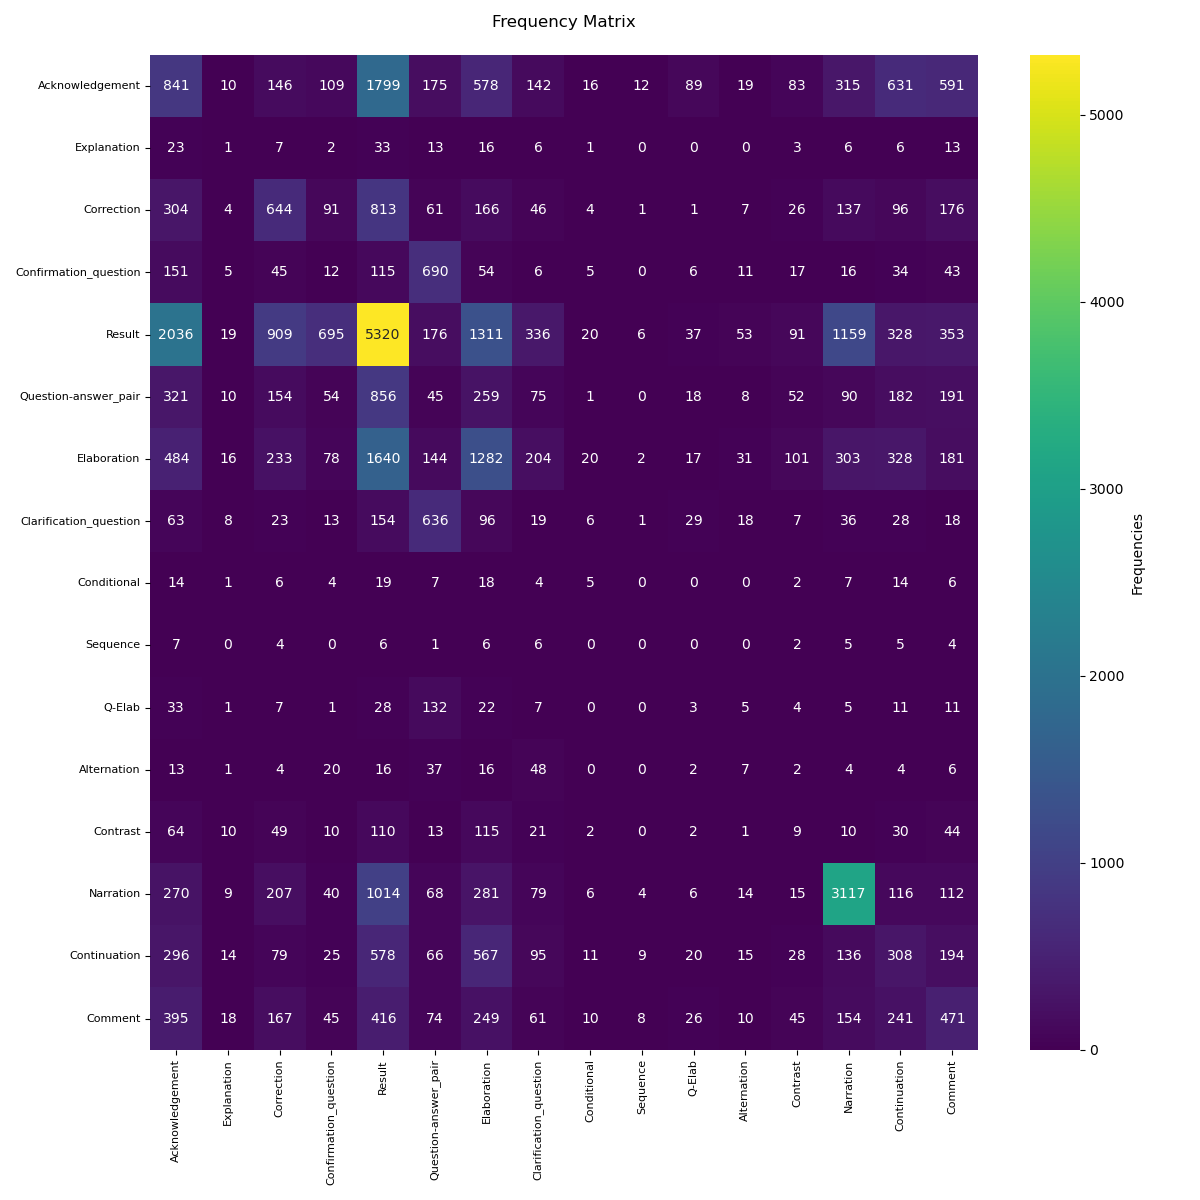
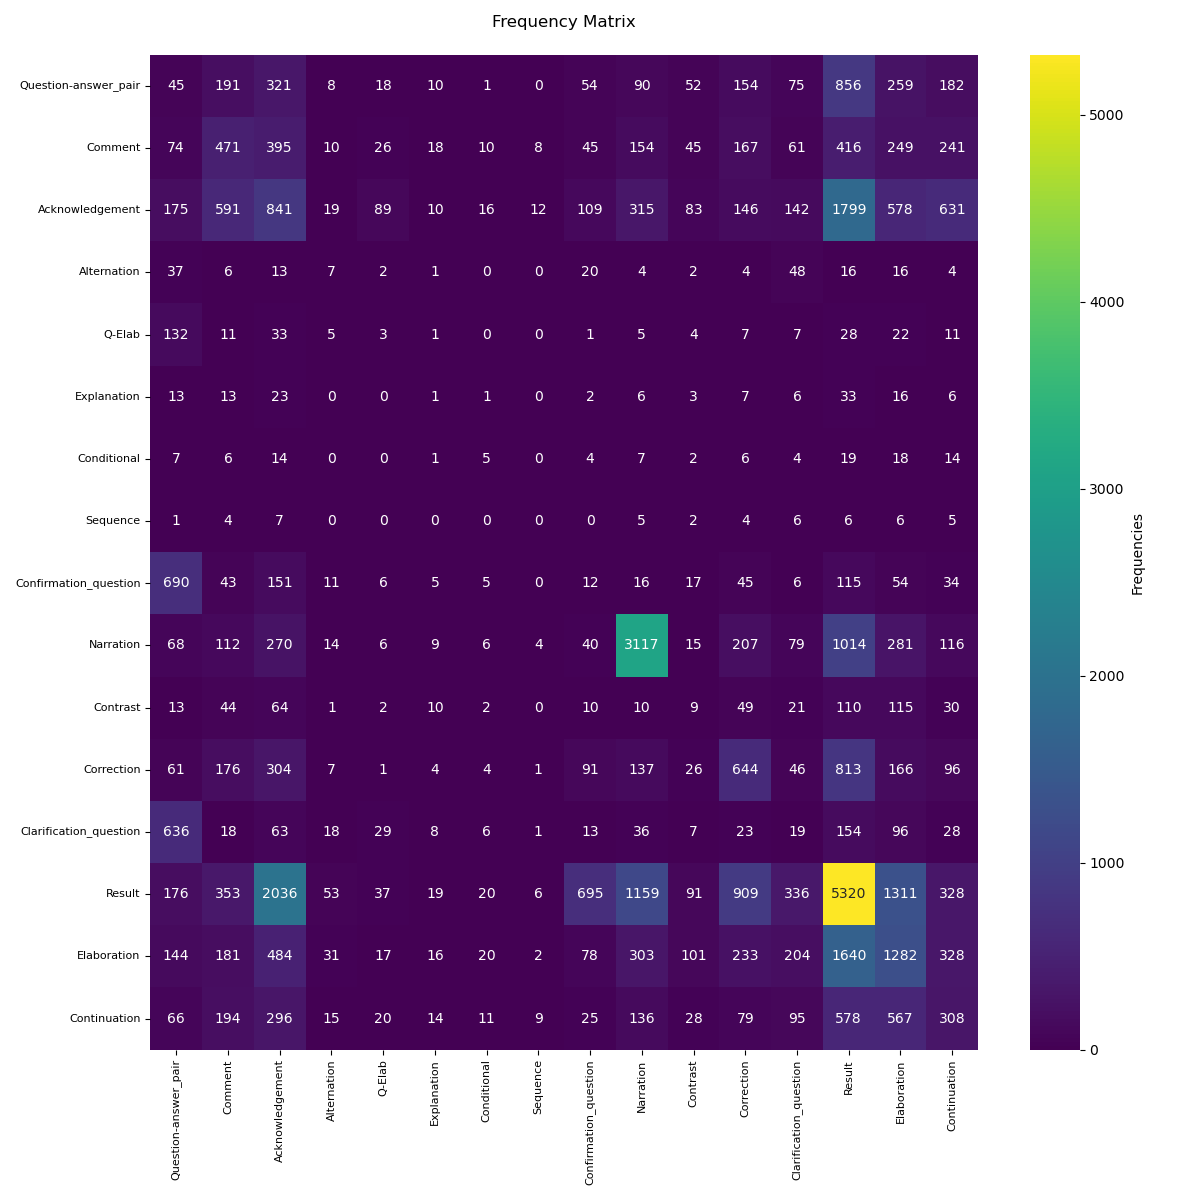
Correzione grafici

diff --git a/scripts/stochastic_matrix.py b/scripts/stochastic_matrix.py
@@ -79,7 +79,7 @@ def create_stochastic_matrix(dict_relazioni, name_dataset):
 
 
 if __name__ == "__main__":
-    path_file1 = ['dataset/STAC/train_subindex.json', 'dataset/STAC/train_subindex.json']
+    path_file1 = ['dataset/STAC/train_subindex.json', 'dataset/STAC/test_subindex.json']
     path_file2 = ['dataset/MOLWENI/dev.json', 'dataset/MOLWENI/test.json', 'dataset/MOLWENI/train.json']
     path_file3 = ['dataset/MINECRAFT/DEV_32_bert.json', 'dataset/MINECRAFT/TEST_101_bert.json', 'dataset/MINECRAFT/TEST_133.json', 
                     'dataset/MINECRAFT/TRAIN_307_bert.json', 'dataset/MINECRAFT/VAL_100_bert.json']
